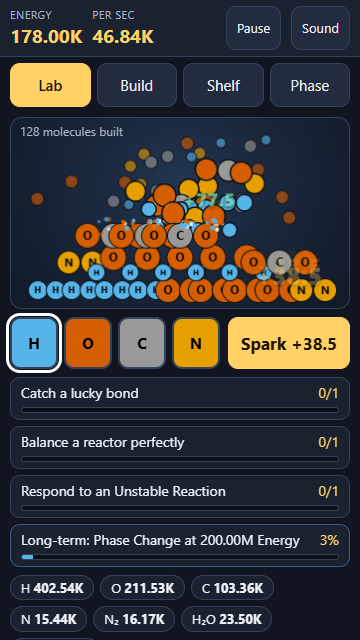
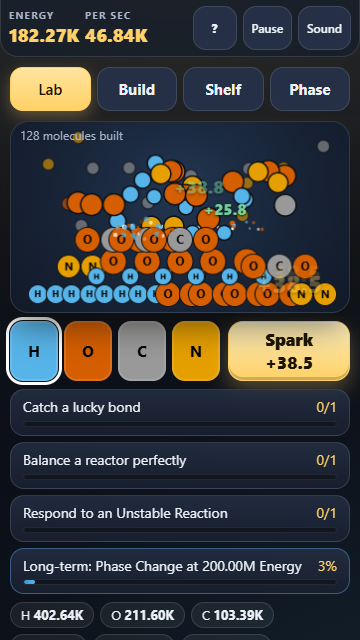
Bondwork 1.2.2: fit header on small phones; covers and screenshots for the four small games

diff --git a/src/style.css b/src/style.css
@@ -182,3 +182,12 @@ button.big:hover:not(:disabled),#tabs button.on:hover{background:linear-gradient
 .item button.can{background:linear-gradient(180deg,#2f8c5b,#1f6c44) #2a7f52}
 .item button.can:hover:not(:disabled){background:linear-gradient(180deg,#37a066,#237a4e) #2f8f5c}
 button{transition:transform .1s,border-color .15s,box-shadow .15s}
+
+#btnHelp{min-width:44px;padding:4px 0;font-size:18px;font-weight:800}
+#top{flex-wrap:nowrap}
+#top .stat{min-width:0}
+#top{gap:6px;padding:6px 8px}
+#top .stat{flex:none}
+#top .stat b{font-size:18px}
+#top .icon{padding:4px 8px;font-size:12px}
+#btnHelp{padding:4px 0;font-size:18px}

diff --git a/src/index.html b/src/index.html
@@ -15,7 +15,7 @@
     <div class="stat"><span class="lbl">per sec</span><b id="rate">0</b></div>
     <div class="stat" id="ppStat"><span class="lbl">Phase Pts</span><b id="pp">0</b></div>
     <div class="spacer"></div>
-    <button id="btnHelp" class="icon" aria-label="How to play">? Help</button>
+    <button id="btnHelp" class="icon" aria-label="How to play" title="How to play">?</button>
     <button id="btnPause" class="icon" aria-label="Pause">Pause</button>
     <button id="btnMute" class="icon" aria-label="Toggle sound">Sound</button>
   </header>

diff --git a/src/data.js b/src/data.js
@@ -1,5 +1,5 @@
 // Static game data. All names, facts and numbers are original to this project.
-export const VERSION = '1.2.1';
+export const VERSION = '1.2.2';
 export const SAVE_VERSION = 1;
 
 export const ATOMS = ['H', 'O', 'C', 'N'];

diff --git a/deploy/DEPLOY.md b/deploy/DEPLOY.md
@@ -6,13 +6,13 @@ GitHub Pages is live for all five games (repo https://github.com/prasadiitian/sm
 | Game | Version | Live URL (GitHub Pages) | itch.io | Playgama |
 |---|---|---|---|---|
 | Portal | - | https://prasadiitian.github.io/smartgames/ | - | - |
-| Bondwork (idle) | 1.2.1 | https://prasadiitian.github.io/smartgames/bondwork/ | https://prasady.itch.io/bondwork (draft, build 1.2.1 uploaded 2026-11-03) | waiting |
+| Bondwork (idle) | 1.2.2 | https://prasadiitian.github.io/smartgames/bondwork/ | https://prasady.itch.io/bondwork (draft, build 1.2.2 uploaded 2026-11-03) | waiting |
 | Moonmerge (merge puzzle) | 1.0.0 | https://prasadiitian.github.io/smartgames/moonmerge/ | https://prasady.itch.io/moonmerge (draft, build 1.0.0 uploaded 2026-11-03) | waiting |
 | Skyline Stack (arcade) | 1.0.0 | https://prasadiitian.github.io/smartgames/skyline/ | https://prasady.itch.io/skyline (draft, build 1.0.0 uploaded 2026-11-03) | waiting |
 | Floodgate (puzzle) | 1.0.0 | https://prasadiitian.github.io/smartgames/floodgate/ | https://prasady.itch.io/floodgate (draft, build 1.0.0 uploaded 2026-11-03) | waiting |
 | Lane Drift (arcade) | 1.0.0 | https://prasadiitian.github.io/smartgames/lanedrift/ | https://prasady.itch.io/lanedrift (draft, build 1.0.0 uploaded 2026-11-03) | waiting |
 
-Zips are in `builds/` (`<slug>-v<version>-2026-11-03.zip`). Bondwork 1.2.0 was live for a few minutes and replaced by 1.2.1 (first-run help flag was not being saved); redeploy is a push of `site/` to `gh-pages`.
+Zips are in `builds/` (`<slug>-v<version>-2026-11-03.zip`). Bondwork 1.2.0 was live for a few minutes and replaced by 1.2.2 (first-run help flag was not being saved); redeploy is a push of `site/` to `gh-pages`.
 
 Pre-flight: `PRE-FLIGHT.md` (Bondwork, 14/14 pass) and `PRE-FLIGHT-GAMES.md` (other four, all pass). Listings: `listing/` (Bondwork at the top level, the others in `listing/<slug>/`). CrazyGames / Poki: notes only (`listing/crazygames-poki-notes.md`, applies to all five).
 

diff --git a/deploy/PRE-FLIGHT.md b/deploy/PRE-FLIGHT.md
@@ -1,21 +1,21 @@
 # PRE-FLIGHT
 
-Run: 2026-11-03T13:35:27.731Z  
-Version: 1.2.1
+Run: 2026-11-03T14:13:46.665Z  
+Version: 1.2.2
 
 | Result | Check | Detail |
 |---|---|---|
 | PASS | Unit + economy tests | 32 passed, 0 failed |
 | PASS | Fun-pass tests (goals, discovery, dials, events, first-minute pacing) | 15 passed, 0 failed |
-| PASS | Browser tests on dist (3 viewports, console, network, layout) | 54 passed, 0 failed |
-| PASS | Build under 2 MB | 94034 bytes |
-| PASS | index.html at root of zip | bondwork-v1.2.1-2026-11-03.zip |
+| PASS | Browser tests on dist (3 viewports, console, network, layout) | 57 passed, 0 failed |
+| PASS | Build under 2 MB | 94330 bytes |
+| PASS | index.html at root of zip | bondwork-v1.2.2-2026-11-03.zip |
 | PASS | No backslash paths in zip |  |
 | PASS | No external URLs in build (comments naming future SDKs excluded) |  |
 | PASS | No leftover debug code (console.log/debugger/TODO) |  |
 | PASS | No secrets in working tree |  |
 | PASS | No secrets in git history |  |
 | PASS | Works from a subfolder (relative paths) |  |
-| PASS | Loads in under 3 s on throttled connection | 1078 ms |
-| PASS | Version string matches package (1.2.1) | 1.2.1 |
+| PASS | Loads in under 3 s on throttled connection | 1076 ms |
+| PASS | Version string matches package (1.2.2) | 1.2.2 |
 | PASS | Only original assets; no third-party runtime libraries | see LICENSES.md |

diff --git a/deploy/listing/playgama.md b/deploy/listing/playgama.md
@@ -5,7 +5,7 @@
 **Languages:** English
 **Platforms:** Mobile and desktop browsers, portrait and landscape, runs in a 16:9 iframe
 **Orientation:** Both
-**Build:** `deploy/builds/bondwork-v1.2.1-*.zip` (index.html at root, ~90 KB unzipped, no external requests)
+**Build:** `deploy/builds/bondwork-v1.2.2-*.zip` (index.html at root, ~90 KB unzipped, no external requests)
 **Covers:** `covers/` (315x250, 630x500, 1280x720). **Screenshots:** `screenshots/`.
 **Ads/SDK:** Ships with a no-op platform adapter (`src/platform.js`). Playgama Bridge will be added after account approval; rewarded hooks already exist for "2x production" and "2x offline earnings".
 **Monetization:** none at launch.

diff --git a/deploy/listing/itch.md b/deploy/listing/itch.md
@@ -10,7 +10,7 @@
 
 **Embed:** "Click to launch in fullscreen" off; viewport **960 x 540** (16:9), enable "Mobile friendly", enable "Fullscreen button", "Automatically start on page load" off.
 
-**Upload:** `deploy/builds/bondwork-v1.2.1-*.zip`, tick "This file will be played in the browser".
+**Upload:** `deploy/builds/bondwork-v1.2.2-*.zip`, tick "This file will be played in the browser".
 
 **Cover image:** `covers/cover-630x500.png` (upload at 630x500; itch recommends 315x250 min). Screenshots: everything in `screenshots/`.
 

diff --git a/deploy/PRE-FLIGHT-GAMES.md b/deploy/PRE-FLIGHT-GAMES.md
@@ -1,6 +1,6 @@
 # PRE-FLIGHT (small games)
 
-Run: 2026-11-03T13:07:34.382Z  
+Run: 2026-11-03T14:14:04.194Z  
 Games: floodgate, lanedrift, moonmerge, skyline
 
 | Result | Check | Detail |
